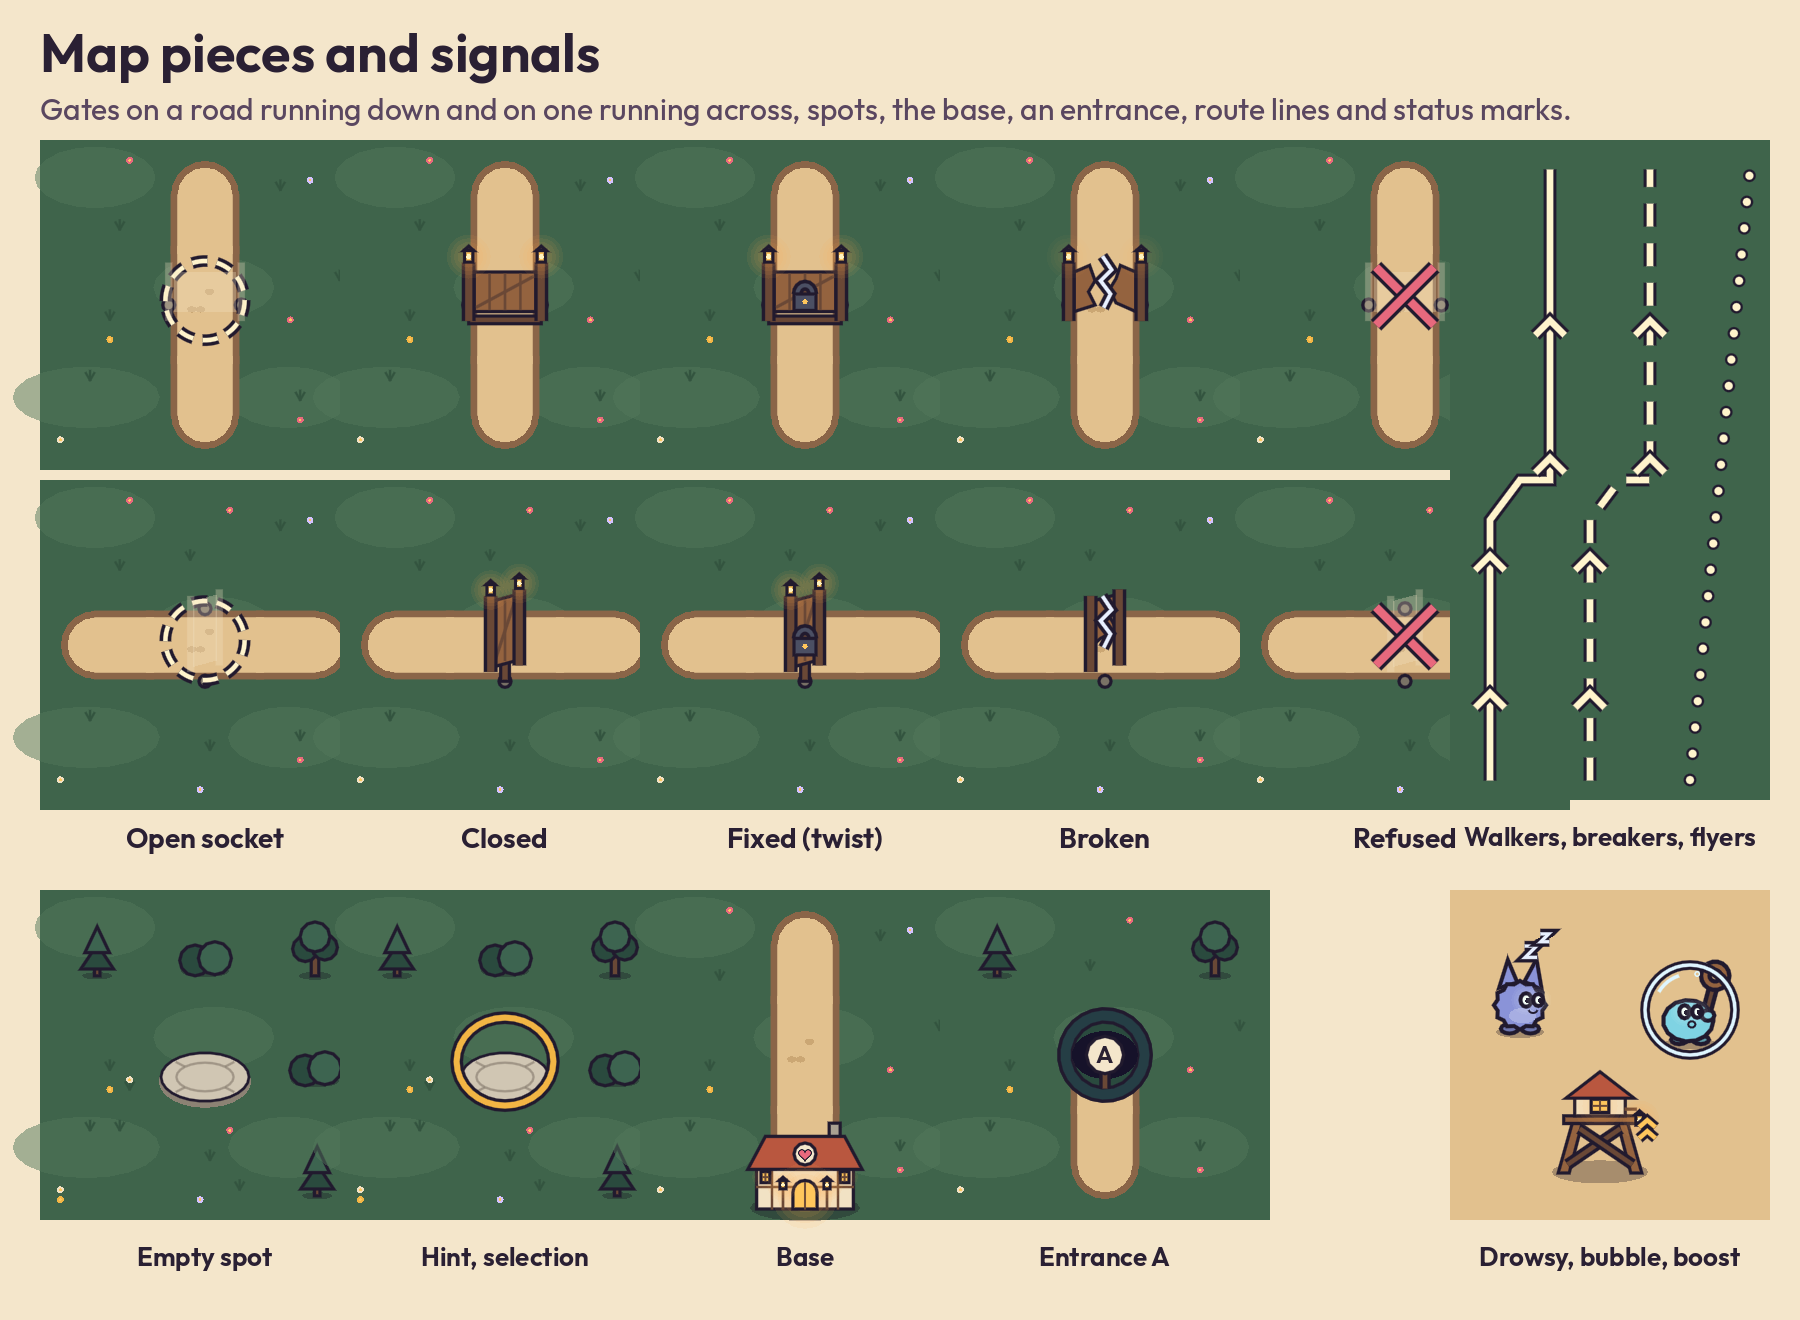
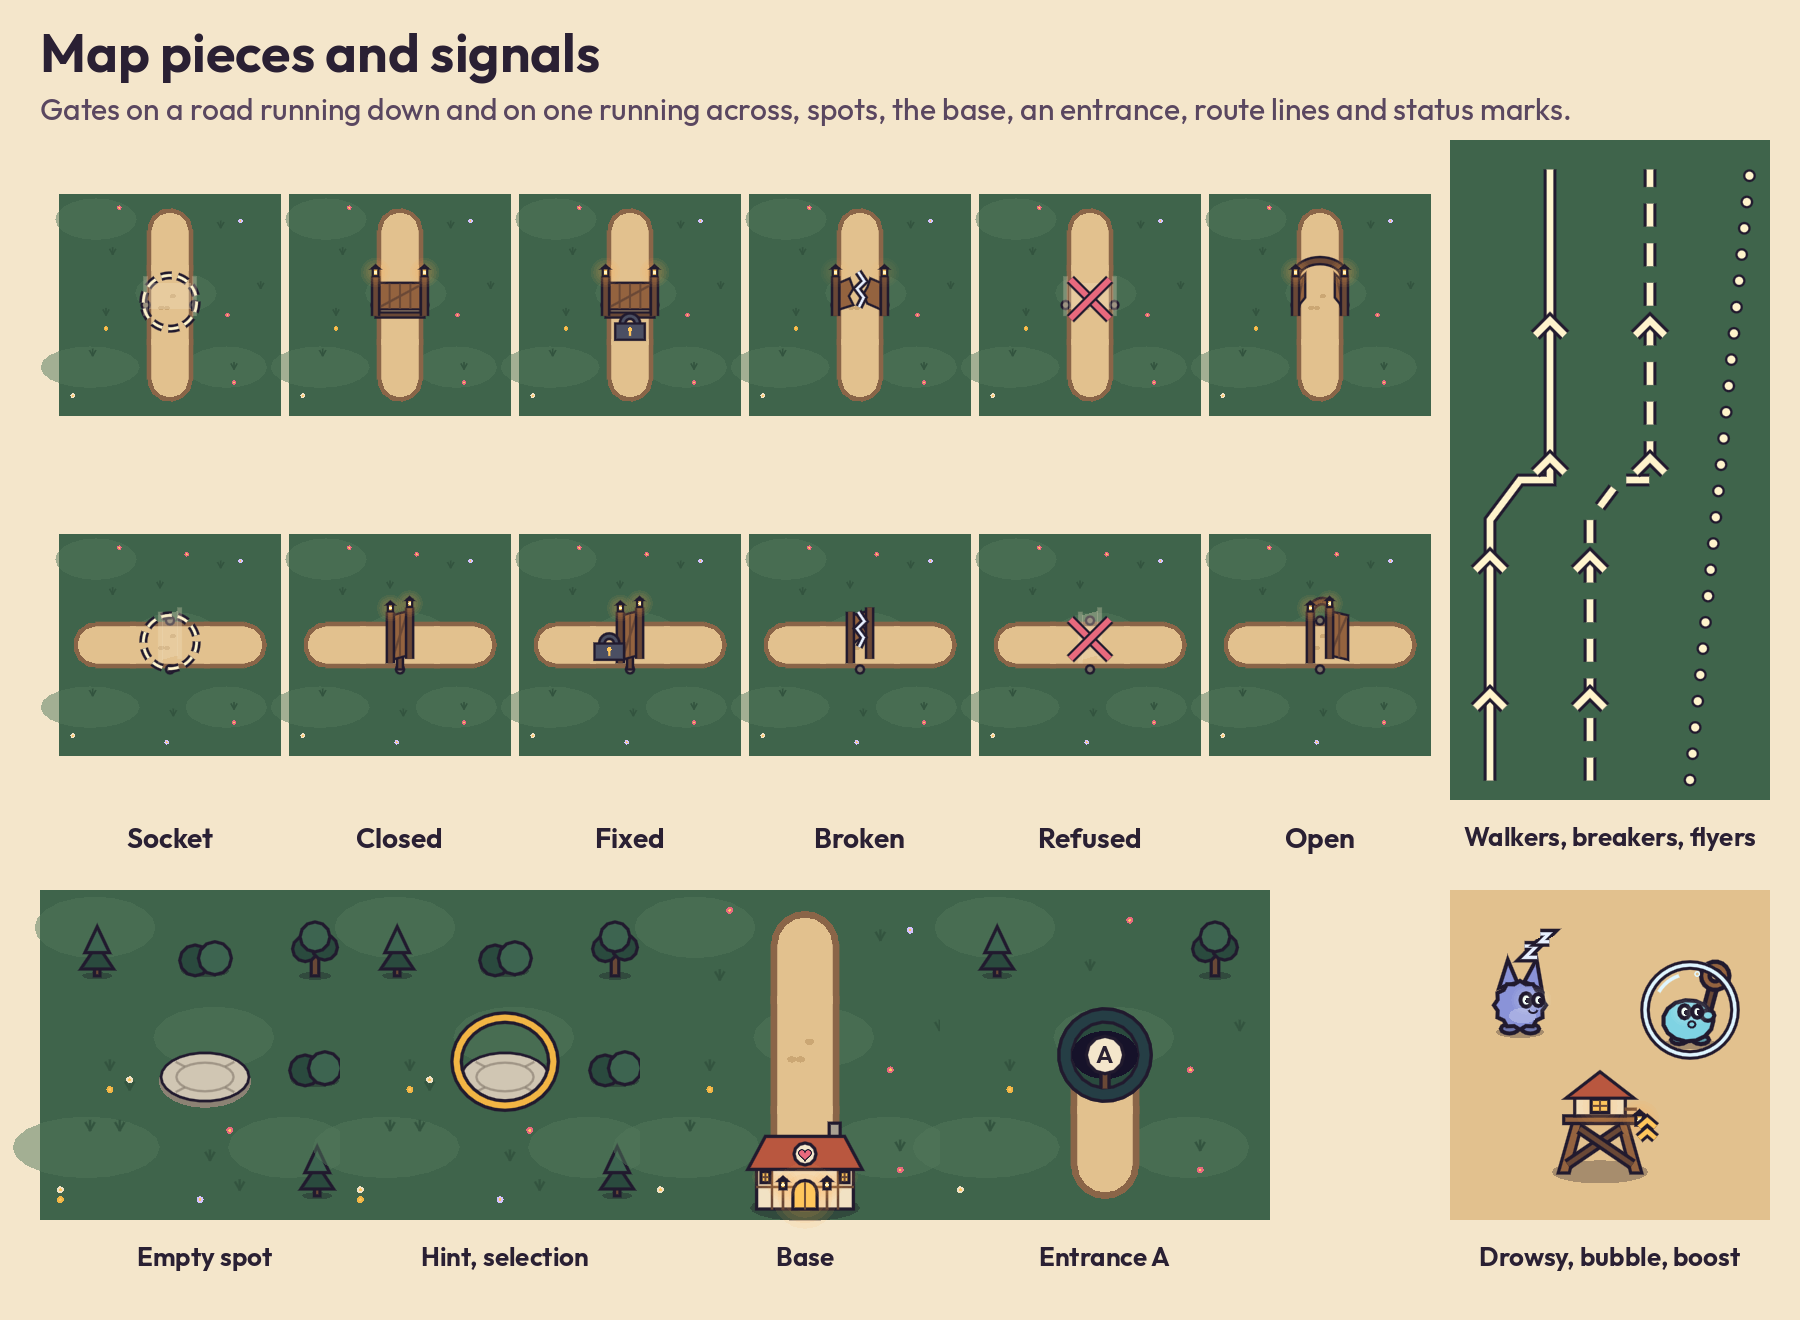
Add the open gate look and make the locked gate differ by shape
MapArt.Gate gains OPEN: an arch over two posts with the road clear,
shown while every gate stands open. The locked gate's padlock now
hangs outside the gate, so locked and closed differ in one flat
color. A test checks every pair of the six looks by shape alone.
docs/art/gate_looks.png comes from tools/icon/art_review.gd, and
NAMES.md records Bart's approval.

Changed region(s): [[0.0, 0.0932, 0.8711, 0.6523]]

diff --git a/docs/art/THEME.md b/docs/art/THEME.md
@@ -88,6 +88,7 @@ Graphic pairs (need 3.0:1)
   14.99:1  BUBBLE on INK_LINE          a Bubbler's bubble ring in its casing
   14.65:1  FLOUR on INK_LINE           the drowsy mark in its casing
    5.39:1  HEART on INK_LINE           the refused gate cross in its casing
+   4.73:1  TIMBER on ROAD              an open gate's arch and posts over the road
   16.36:1  EYE on INK_LINE             creature eyes
 ```
 
@@ -180,6 +181,10 @@ tests/theme/test_silhouettes.gd records each drawing headless and checks that:
 
 ![map pieces](map_pieces.png)
 
+All six gate looks at true size on the Fold5 cover screen, on both road directions and in one flat color:
+
+![gate looks](gate_looks.png)
+
 | Signal (RULES.md 9.7) | Shape |
 |---|---|
 | Walkers' route | Solid line with arrows (`MapArt.Route.WALK`) |
@@ -187,9 +192,10 @@ tests/theme/test_silhouettes.gd records each drawing headless and checks that:
 | Flyers' route | Dotted straight line (`Route.FLY`) |
 | Open socket | Dashed ring and a ghost gate, two stone post stubs on the road edges |
 | Closed gate | Wooden gate with two lantern posts and a plank across the road |
-| Fixed gate (twist) | Closed gate with a padlock |
+| Fixed gate (Twist, or locked by Iron Gate) | Closed gate with a big padlock hanging outside its outline: below the gate, or on the near post when seen from the side |
 | Broken gate | Two halves hanging open, a zigzag crack |
 | Refused placement | Ghost gate crossed out with a big X |
+| Open gate (under Gateless Night, fixed gates too) | Both posts joined by a round wooden arch, the leaves swung back, the road clear between the posts |
 | Slowed creature | `draw_drowsy`: a "z z" mark |
 | Bubble up | `draw_bubble`: a ring around the Bubbler |
 | Boosted tower | `draw_boost`: a double chevron |

diff --git a/docs/ASSETS.md b/docs/ASSETS.md
@@ -20,5 +20,5 @@ Every visual, effect, sound and piece of music in Forkline is made in code. This
 | Map ground, scenery, roads, spots, sockets, gates, base, entrance, route lines | src/theme/map_art.gd | Drawn in code on the level grid. |
 | Wordmark | src/theme/wordmark.gd | Drawn in code. |
 | Launcher icons: icons/icon_192.png, icon_foreground_432.png, icon_background_432.png, icon_monochrome_432.png | tools/icon/make_icon.gd drawing src/theme/icon_art.gd | Generated and committed. Rerun the tool after any change to the icon art. |
-| docs/art/ review images (silhouettes, tiers, grid maps, map pieces, wordmark, icon preview) | tools/icon/art_review.gd | Review images, not shipped. |
+| docs/art/ review images (silhouettes, tiers, grid maps, map pieces, gate looks, wordmark, icon preview) | tools/icon/art_review.gd | Review images, not shipped. |
 | docs/art/*.png screenshots, icon idea and silhouette sheet | prototypes/theme/screenshots.sh running the slice (the slice was deleted on 2026-10-24) | Review images, not shipped. |

diff --git a/docs/art/NAMES.md b/docs/art/NAMES.md
@@ -1,6 +1,6 @@
 # Forkline names
 
-Art director, 2026-10-23. Phase 4. For the game designer to review, then for Bart. No code uses a display name until Bart has seen this list. Code uses the ids.
+Art director, 2026-10-23. Phase 4. Bart approved this list on 2026-10-24. Code uses the ids.
 
 ## How this list was made
 
